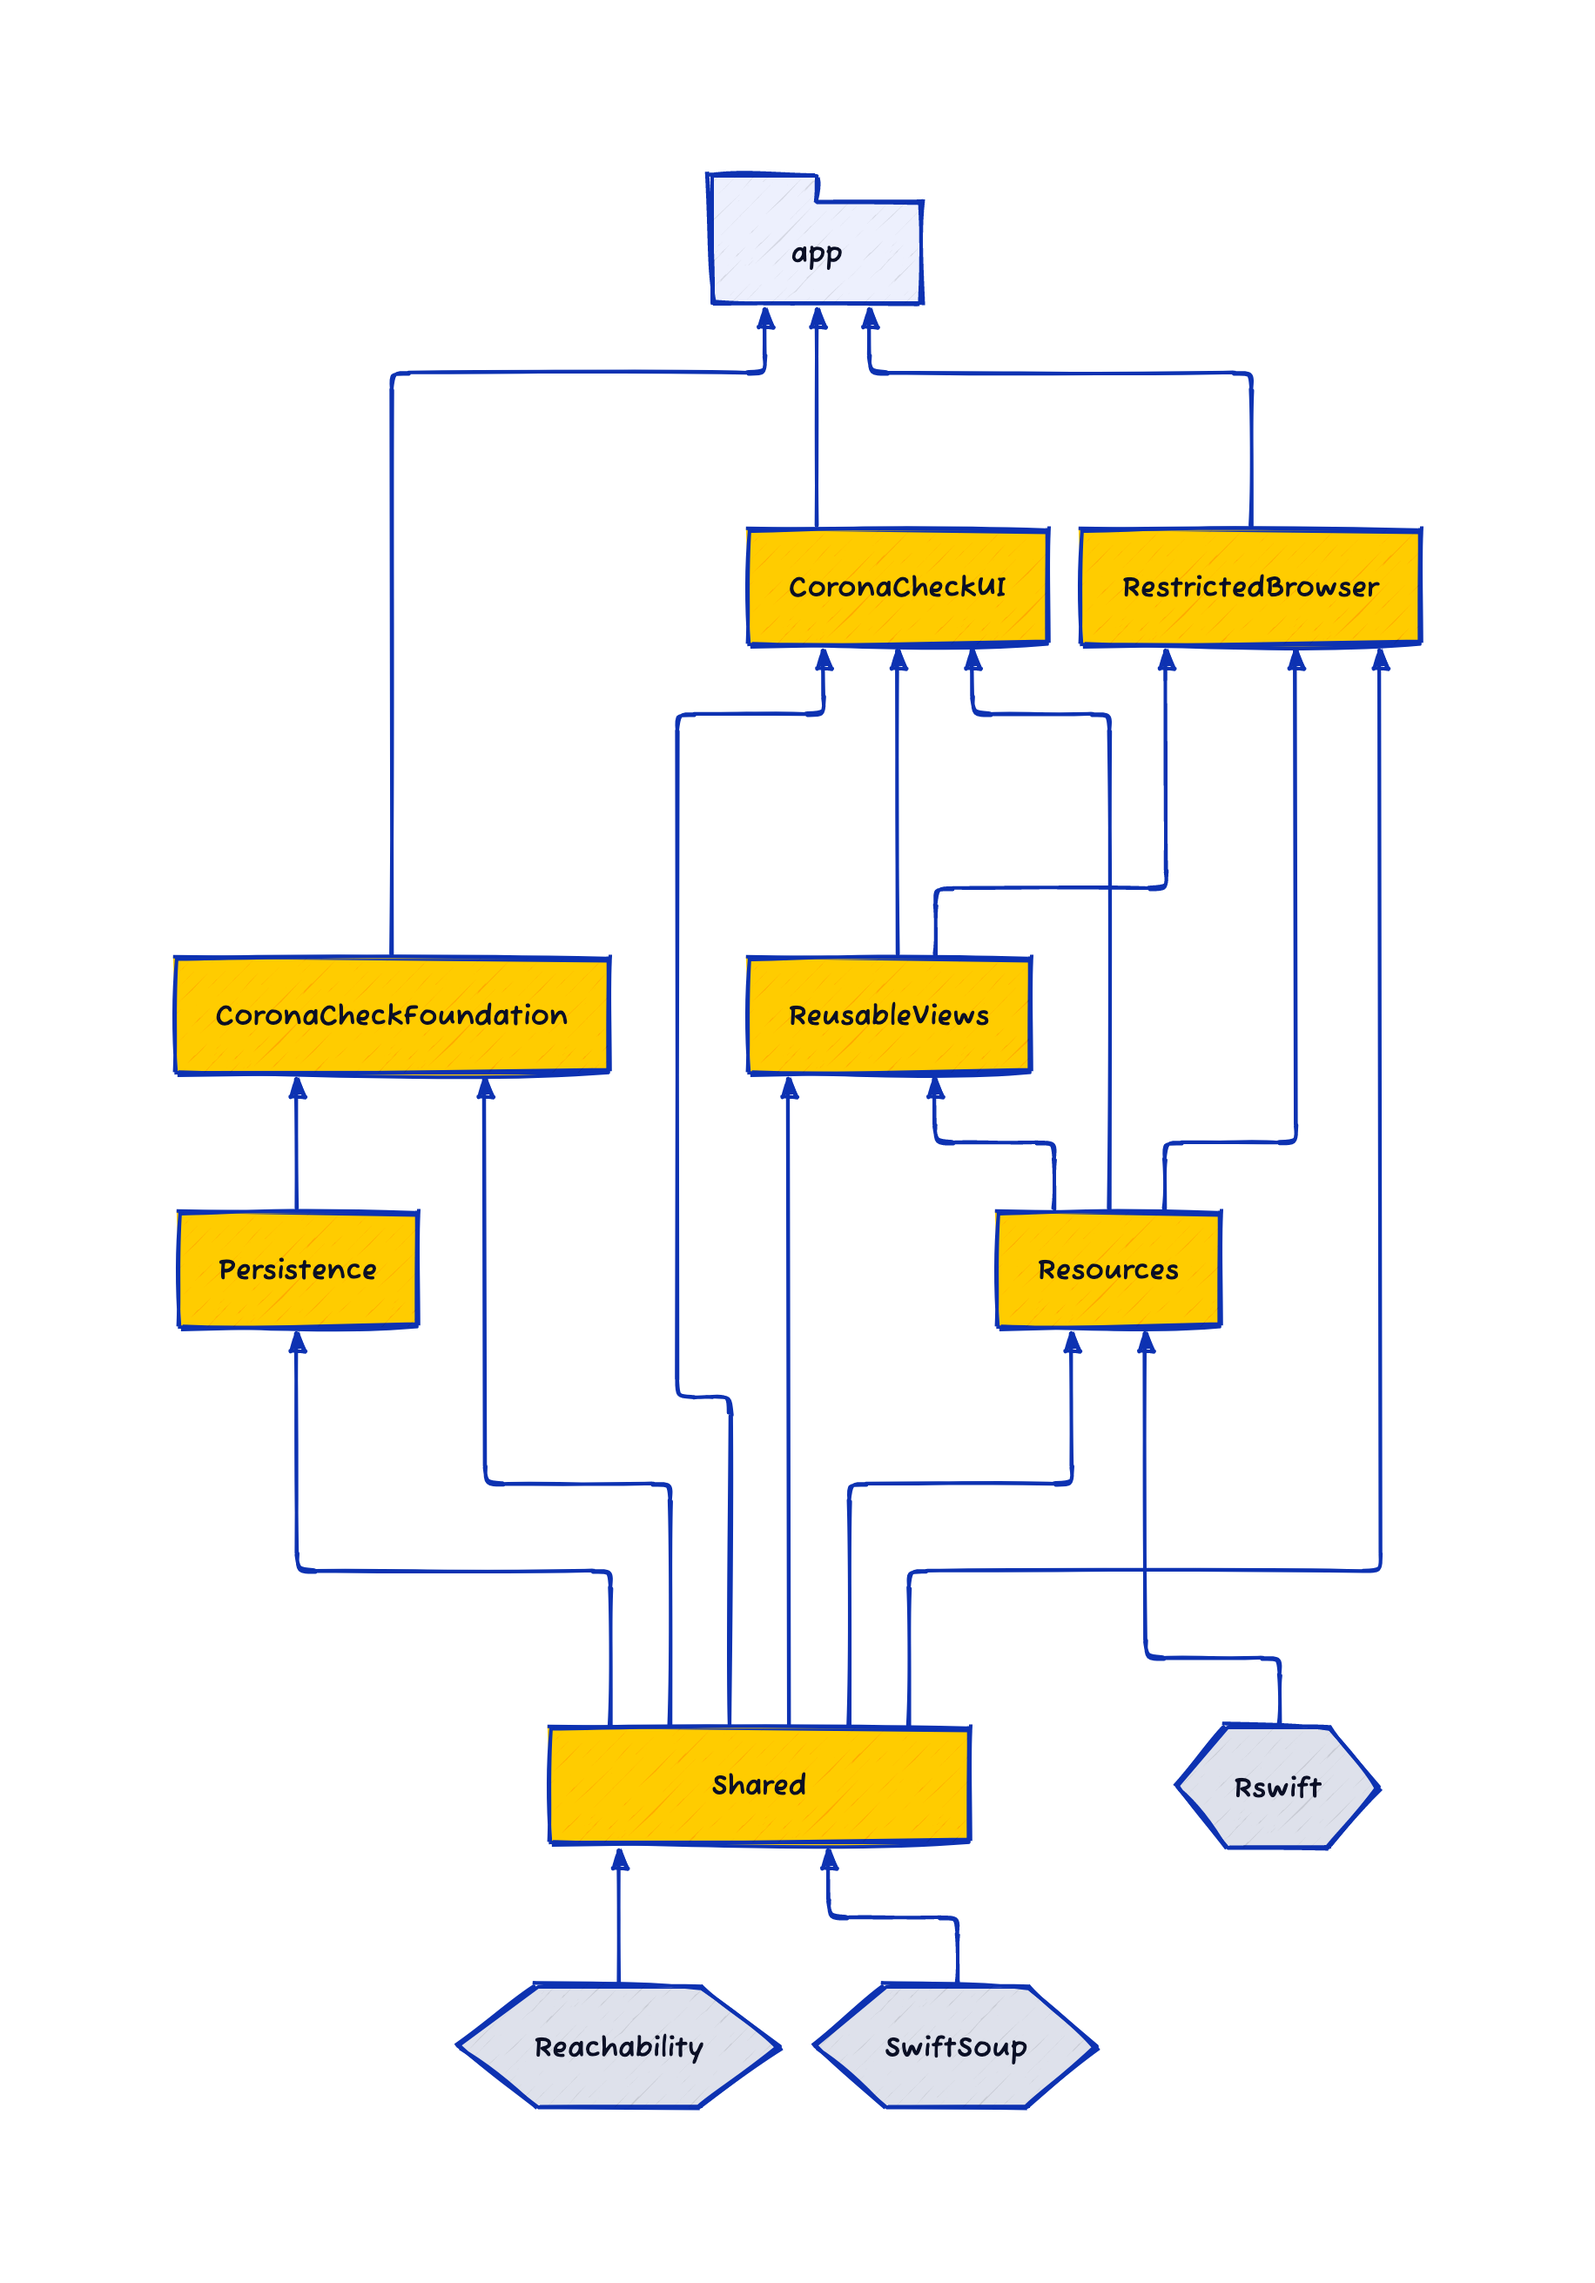
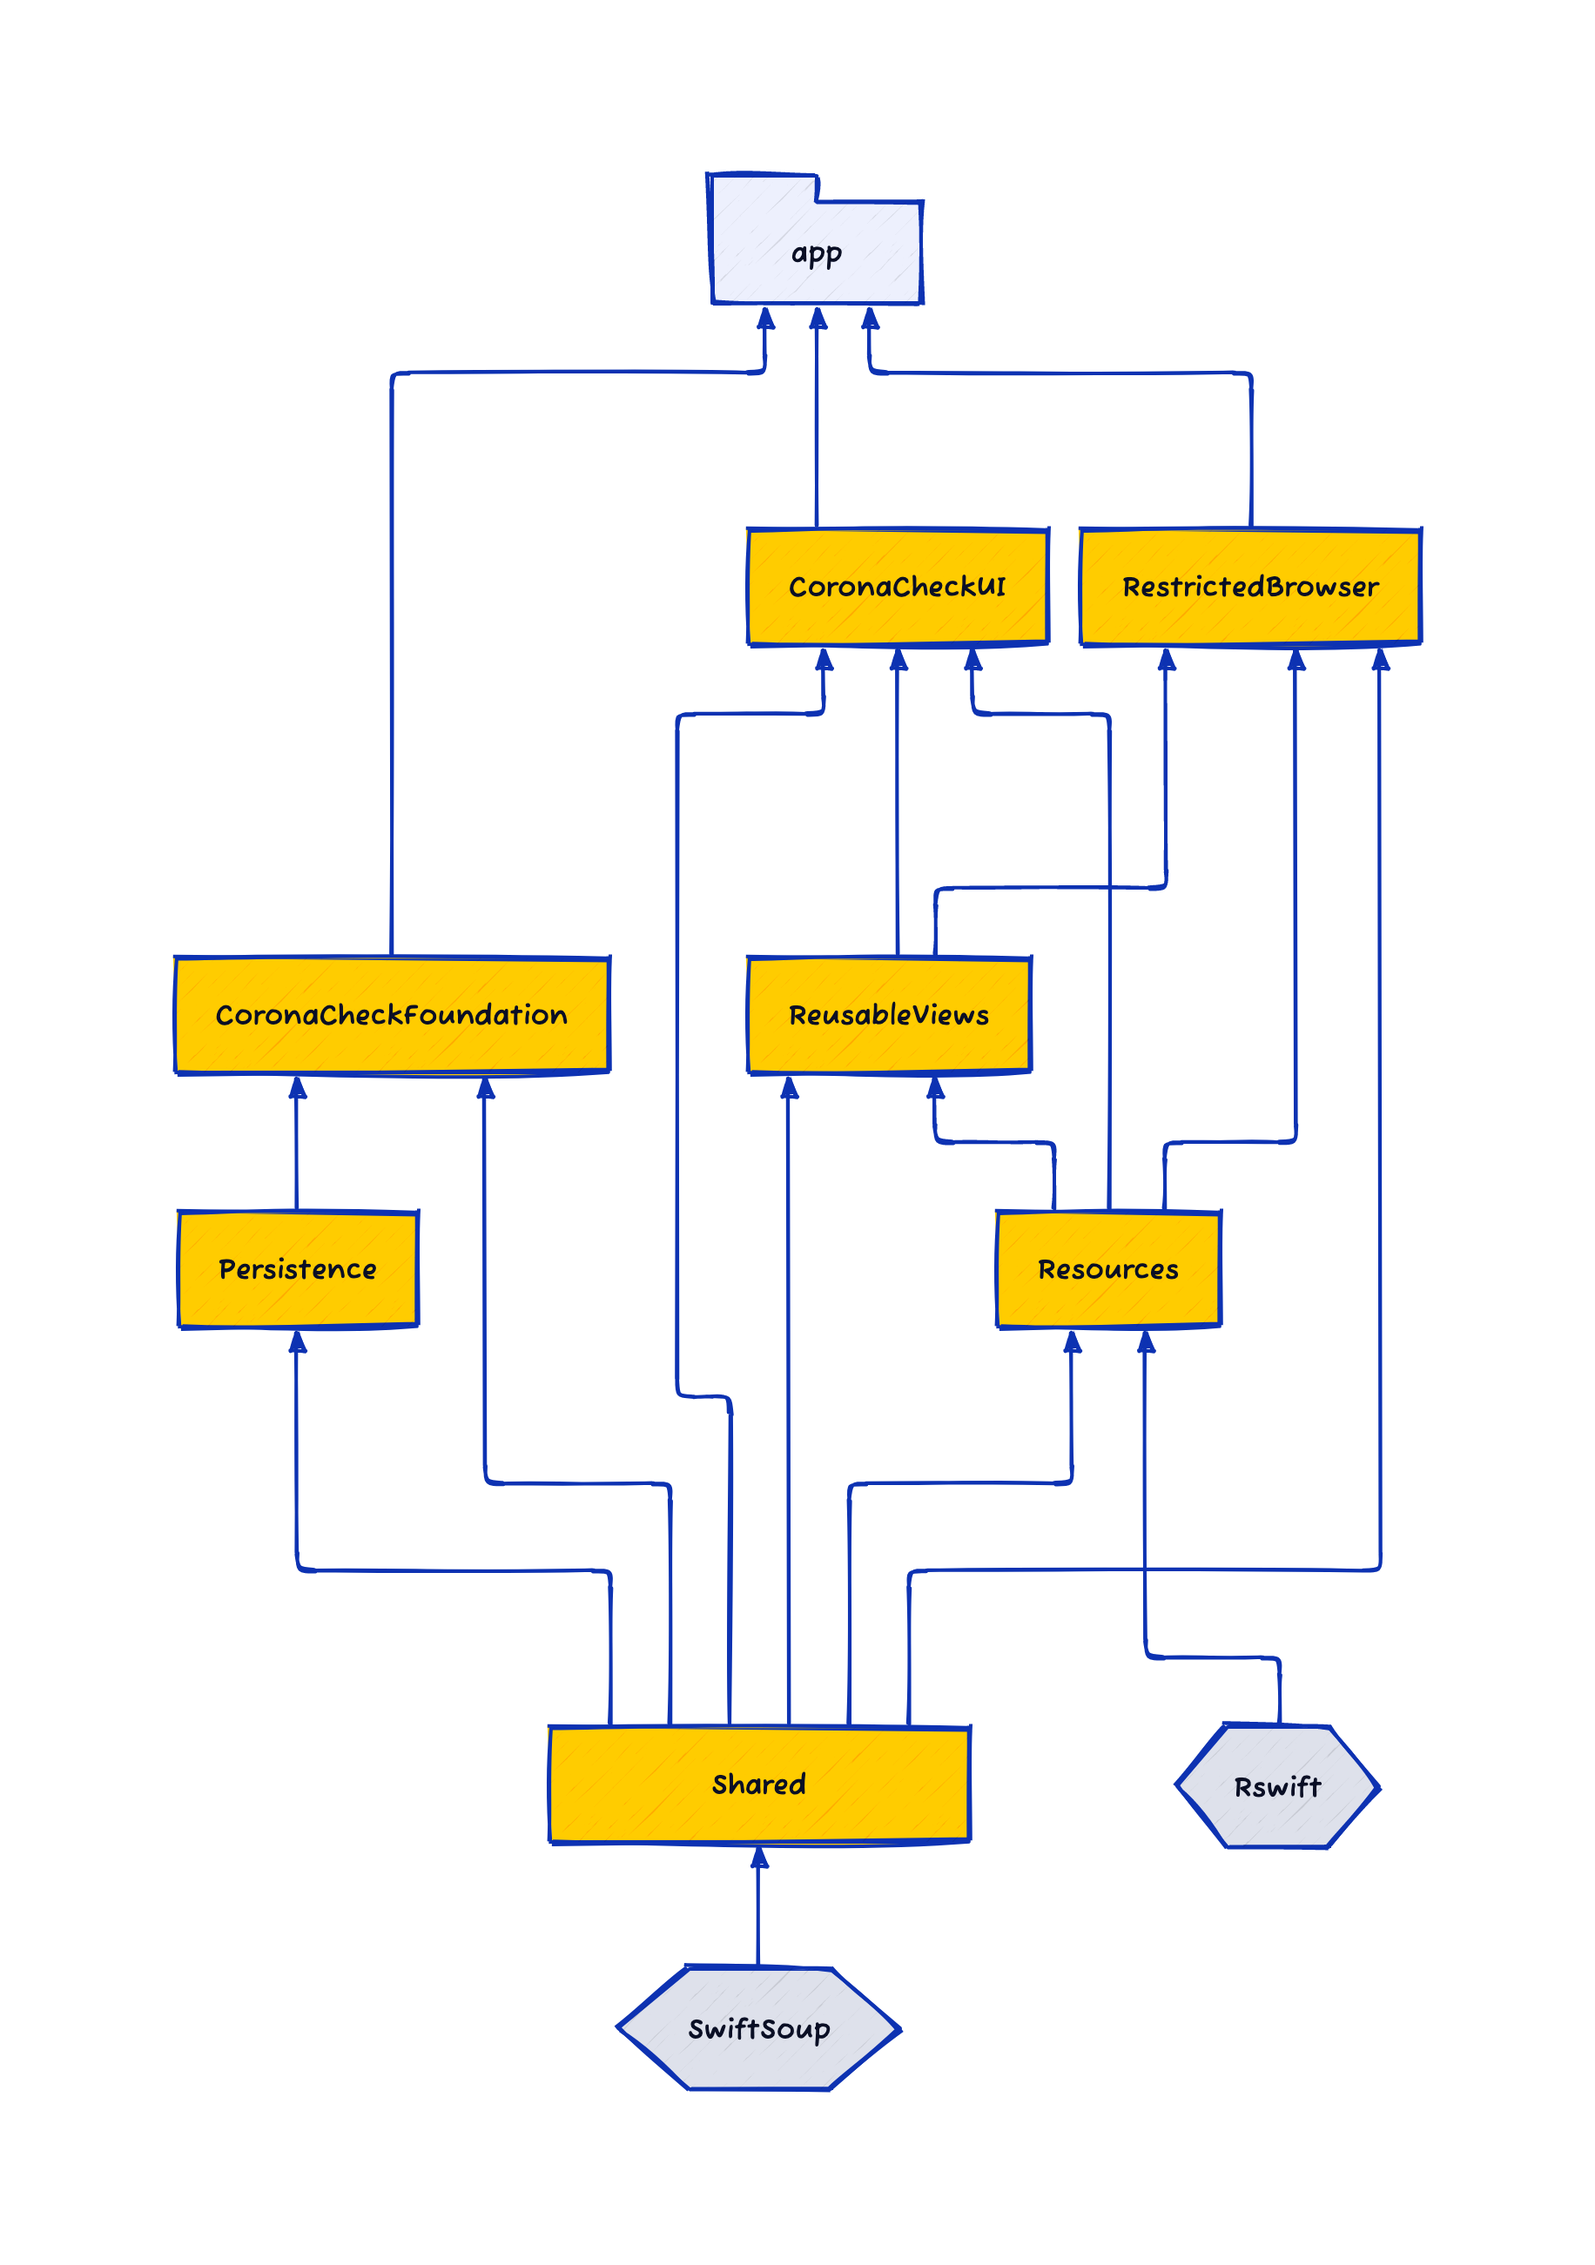
5708: Removed Reachability

diff --git a/Packages/Shared/Package.swift b/Packages/Shared/Package.swift
@@ -14,7 +14,6 @@ let package = Package(
 	],
 	dependencies: [
 		// Internal:
-		.package(url: "https://github.com/ashleymills/Reachability.swift", from: "5.1.0"),
 		.package(url: "https://github.com/scinfu/SwiftSoup.git", from: "2.6.1"),
 		
 		// Testing:
@@ -26,7 +25,6 @@ let package = Package(
 		.target(
 			name: "Shared",
 			dependencies: [
-				.product(name: "Reachability", package: "Reachability.swift"),
 				"SwiftSoup"
 			]
 		),
